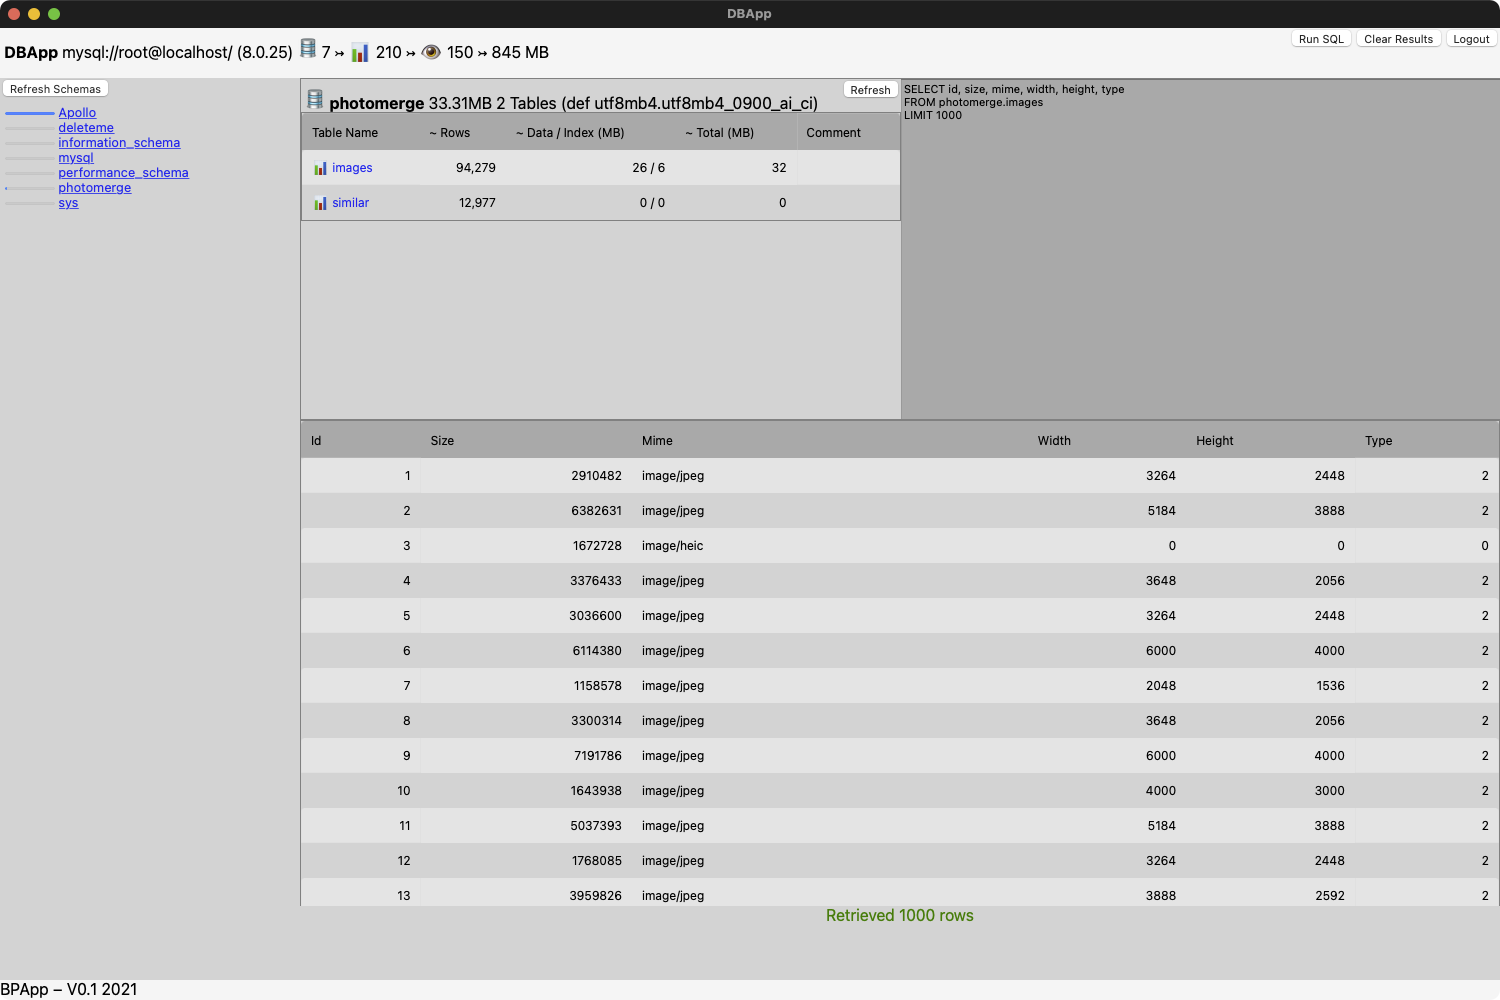
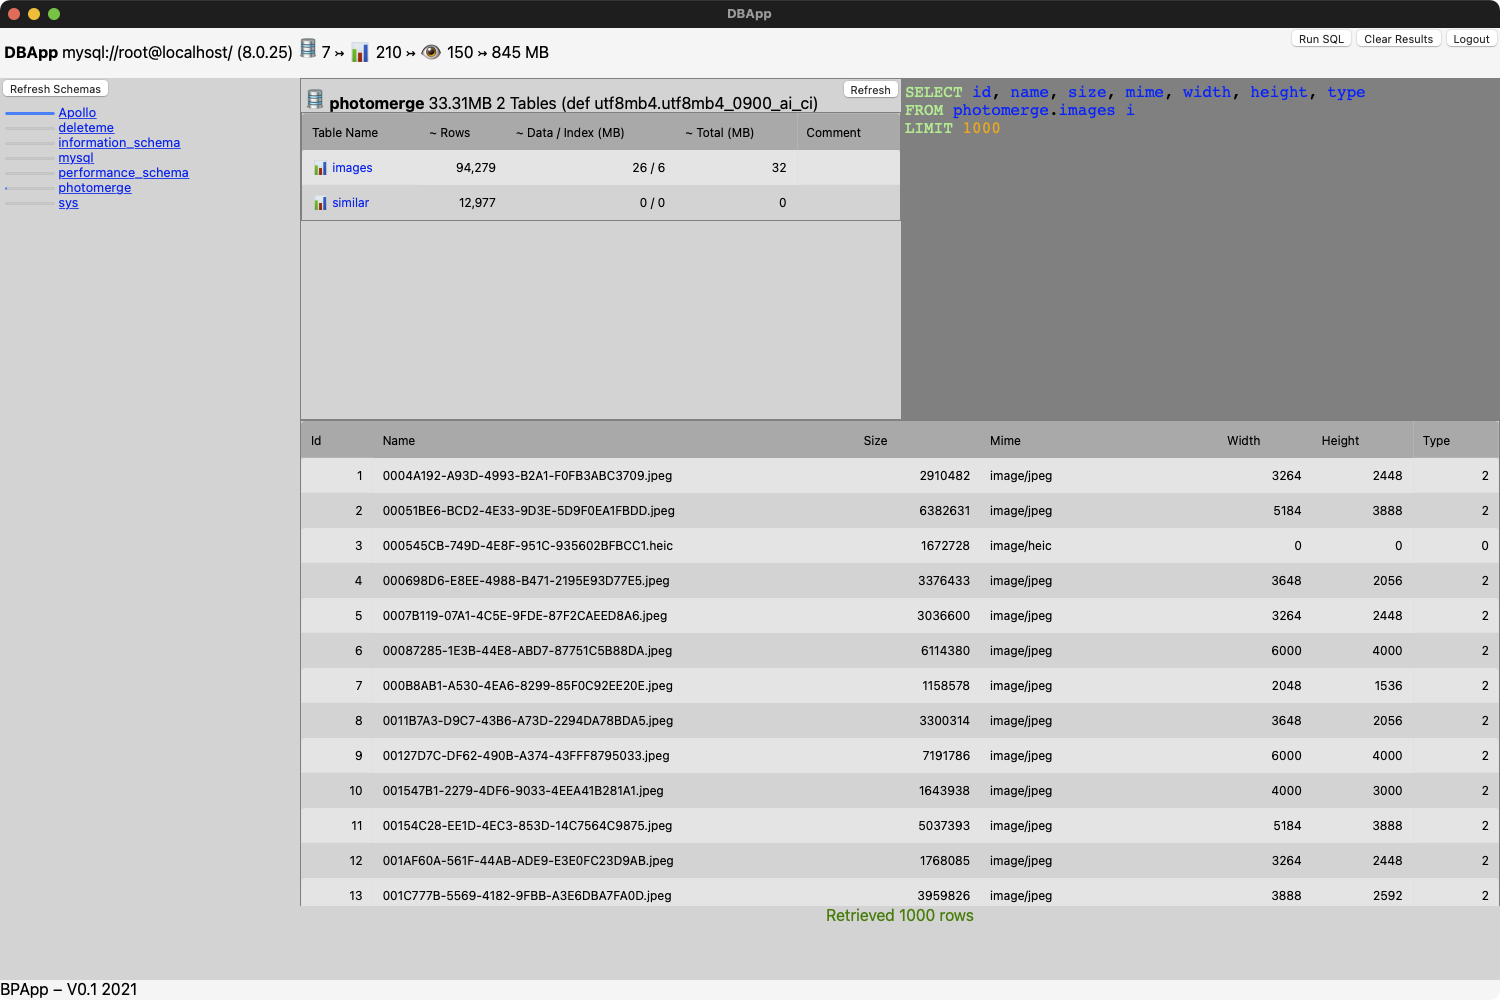
Syntax highlighting using LDT

diff --git a/DBApp.html b/DBApp.html
@@ -1,6 +1,14 @@
 <html>
     <head>
-        
+        <style>
+			/* highlight styles */
+			.ldt .comment { color: silver; }
+			.ldt .string { color: red; }
+			.ldt .number { color: orange; }
+			.ldt .keyword { color: lightgreen; }
+			.ldt .variable { color: cyan; }
+			.ldt .define { color: blue; }
+        </style>
     </head>
     <body>
         <div class="overlay" id="overlay"></div>
@@ -56,7 +64,8 @@
                             <span id="tablelist"></span>
                         </schemainfo>
                         <query id="query">
-                            <textarea id="sql" placeholder="Write your SQL here" style="width: 100%;height: 1000%;background-color: darkgrey;" autocomplete="off" autocorrect="off" autocapitalize="off" spellcheck="false"></textarea>
+                            <!-- <textarea id="sqlx" placeholder="Write your SQL here" style="width: 100%;height: 1000%;background-color: darkgrey;" autocomplete="off" autocorrect="off" autocapitalize="off" spellcheck="false"></textarea> -->
+                            <textarea id="sql" placeholder="Write your SQL here" style="width: 100%;height: 1000%;" autocomplete="off" autocorrect="off" autocapitalize="off" spellcheck="false"></textarea>
                         </query>
                     </action>
                     <results id="results">
@@ -76,5 +85,22 @@
         document.getElementById('server').value = server;
         document.getElementById('login').value = login;
         document.getElementById('password').value = password;
+        function $(e){ return document.getElementById(e); };
+        var parser = new Parser({
+            whitespace: /\s+/,
+            number: /0x[\dA-Fa-f]+|-?(\d+\.?\d*|\.\d+)|#[\dA-Fa-f]{3,6}/,
+            comment: /\/\*([^\*]|\*[^\/])*(\*\/?)?|(\/\/|#)[^\r\n]*|--\s+.*/,
+            string: /"(\\.|[^"\r\n])*"?|'(\\.|[^'\r\n])*'?/,
+            keyword: /([S,s][E,e][L,l][E,e][C,c][T,t]|[F,f][R,r][O,o][M,m]|[W,w][H,h][E,e][R,r][E,e]|[A,a][N,n][D,d]|[O,o][R,r]|[B,b][E,e][T,t][W,w][E,e][E,e][N,n]|[L,l][I,i][M,m][I,i][T,t]|[C,c][A,a][S,s][E,e]|[W,w][H,h][E,e][N,n]|[T,t][H,h][E,e][N,n]|[I,i][S,s]|[N,n][O,o][T,t]|[E,e][L,l][S,s][E,e]|[E,e][N,n][D,d]|[N,n][U,u][L,l][L,l]|[O,o][N,n]|[[L,l][E,e][F,f][T,t]|[R,r][I,i][G,g][H,h][T,t]|[O,o][U,u][T,t][E,e][R,r]|[J,j][O,o][I,i][N,n]|[H,h][A,a][V,v][I,i][N,n][G,g]|[L,l][I,i][K,k][E,e]|[O,o][R,r][D,d][E,e][R,r]|[B,b][Y,y]|[G,g][R,r][O,o][U,u][P,p])(?!\w|=)/i, /* i not working */
+            variable: /[\$\%\@](\->|\w)+(?!\w)|\${\w*}?/,
+            define: /[$A-Z_a-z0-9]+/,
+            op: /[\+\-\*\/=<>!]=?|[\(\)\{\}\[\]\.\|]/,
+            other: /\S/,
+        });
+        window.onload = function(){
+            var textarea = document.getElementById('sql');
+            textarea.value = '-- comment\nSELECT CURRENT_DATE ';
+            decorator = new TextareaDecorator( textarea, parser );
+        };
     </script>
 </html>

diff --git a/TextareaDecorator.js b/TextareaDecorator.js
@@ -1,0 +1,84 @@
+/* TextareaDecorator.js
+ * written by Colin Kuebler 2012
+ * Part of LDT, dual licensed under GPLv3 and MIT
+ * Builds and maintains a styled output layer under a textarea input layer
+ */
+
+function TextareaDecorator( textarea, parser ){
+	/* INIT */
+	var api = this;
+
+	var parent = document.createElement("div");
+	var output = document.createElement("pre");
+	parent.appendChild(output);
+	var label = document.createElement("label");
+	parent.appendChild(label);
+	textarea.parentNode.replaceChild( parent, textarea );
+	label.appendChild(textarea);
+	parent.className = 'ldt ' + textarea.className;
+	textarea.className = '';
+	textarea.spellcheck = false;
+	textarea.wrap = "off";
+
+	var color = function( input, output, parser ){
+		var oldTokens = output.childNodes;
+		var newTokens = parser.tokenize(input);
+		var firstDiff, lastDiffNew, lastDiffOld;
+		for( firstDiff = 0; firstDiff < newTokens.length && firstDiff < oldTokens.length; firstDiff++ )
+			if( newTokens[firstDiff] !== oldTokens[firstDiff].textContent ) break;
+		while( newTokens.length < oldTokens.length )
+			output.removeChild(oldTokens[firstDiff]);
+		for( lastDiffNew = newTokens.length-1, lastDiffOld = oldTokens.length-1; firstDiff < lastDiffOld; lastDiffNew--, lastDiffOld-- )
+			if( newTokens[lastDiffNew] !== oldTokens[lastDiffOld].textContent ) break;
+		for( ; firstDiff <= lastDiffOld; firstDiff++ ){
+			oldTokens[firstDiff].className = parser.identify(newTokens[firstDiff]);
+			oldTokens[firstDiff].textContent = oldTokens[firstDiff].innerText = newTokens[firstDiff];
+		}
+		for( var insertionPt = oldTokens[firstDiff] || null; firstDiff <= lastDiffNew; firstDiff++ ){
+			var span = document.createElement("span");
+			span.className = parser.identify(newTokens[firstDiff]);
+			span.textContent = span.innerText = newTokens[firstDiff];
+			output.insertBefore( span, insertionPt );
+		}
+	};
+
+	api.input = textarea;
+	api.output = output;
+	api.update = function(){
+		var input = textarea.value;
+		if( input ){
+			color( input, output, parser );
+			var lines = input.split('\n');
+			var maxlen = 0, curlen;
+			for( var i = 0; i < lines.length; i++ ){
+				var tabLength = 0, offset = -1;
+				while( (offset = lines[i].indexOf( '\t', offset+1 )) > -1 ){
+					tabLength += 7 - (tabLength + offset) % 8;
+				}
+				var curlen = lines[i].length + tabLength;
+				maxlen = maxlen > curlen ? maxlen : curlen;
+			}
+			textarea.cols = maxlen + 1;
+			textarea.rows = lines.length + 2;
+		} else {
+			output.innerHTML = '';
+			textarea.cols = textarea.rows = 1;
+		}
+	};
+
+	if( textarea.addEventListener ){
+		textarea.addEventListener( "input", api.update, false );
+	} else {
+		textarea.attachEvent( "onpropertychange",
+			function(e){
+				if( e.propertyName.toLowerCase() === 'value' ){
+					api.update();
+				}
+			}
+		);
+	}
+	api.update();
+
+	return api;
+};
+

diff --git a/DBApp.js b/DBApp.js
@@ -132,7 +132,7 @@ function showSchemaInfo(sn) {
                 if (tabinfo.data[x].table_type == "VIEW") {
                     table_type = "&#128065;&#65039;";
                 }
-                txt += "<tr><td data-sort=\"" + tabinfo.data[x].table_name + "\"><a href=\"#\" onclick=\"document.getElementById('sql').value='SELECT *\\r\\nFROM " + schemaData[sn].schema + "." + tabinfo.data[x].table_name + "\\r\\nLIMIT 1000';return false;\" style=\"text-decoration: none;\">" + table_type + "&nbsp;" + tabinfo.data[x].table_name + "</a></td><td style=\"text-align:right\" data-sort=\"" + tr + "\">" + tr.toLocaleString() + "</td><td style=\"text-align:right\" data-sort=\"" + di + "\">" + dl.toLocaleString() + " / " + il.toLocaleString() + "</td><td style=\"text-align:right\" data-sort=\"" + di + "\">" + di.toLocaleString() + "</td><td>" + tabinfo.data[x].table_comment + "</td></tr>";
+                txt += "<tr><td data-sort=\"" + tabinfo.data[x].table_name + "\"><a href=\"#\" onclick=\"document.getElementById('sql').value='SELECT *\\r\\nFROM " + schemaData[sn].schema + "." + tabinfo.data[x].table_name + "\\r\\nLIMIT 1000';decorator.update();return false;\" style=\"text-decoration: none;\">" + table_type + "&nbsp;" + tabinfo.data[x].table_name + "</a></td><td style=\"text-align:right\" data-sort=\"" + tr + "\">" + tr.toLocaleString() + "</td><td style=\"text-align:right\" data-sort=\"" + di + "\">" + dl.toLocaleString() + " / " + il.toLocaleString() + "</td><td style=\"text-align:right\" data-sort=\"" + di + "\">" + di.toLocaleString() + "</td><td>" + tabinfo.data[x].table_comment + "</td></tr>";
             }
             txt += "</tbody></table>";
             document.getElementById('tablelist').innerHTML = txt;

diff --git a/Keybinder.js b/Keybinder.js
@@ -1,0 +1,76 @@
+/* Keybinder.js
+ * written by Colin Kuebler 2012
+ * Part of LDT, dual licensed under GPLv3 and MIT
+ * Simplifies the creation of keybindings on any element
+ */
+
+var Keybinder = {
+	bind: function( element, keymap ){
+		element.keymap = keymap;
+		var keyNames = {
+			8: "Backspace",
+			9: "Tab",
+			13: "Enter",
+			16: "Shift",
+			17: "Ctrl",
+			18: "Alt",
+			19: "Pause",
+			20: "CapsLk",
+			27: "Esc",
+			33: "PgUp",
+			34: "PgDn",
+			35: "End",
+			36: "Home",
+			37: "Left",
+			38: "Up",
+			39: "Right",
+			40: "Down",
+			45: "Insert",
+			46: "Delete",
+			112: "F1",
+			113: "F2",
+			114: "F3",
+			115: "F4",
+			116: "F5",
+			117: "F6",
+			118: "F7",
+			119: "F8",
+			120: "F9",
+			121: "F10",
+			122: "F11",
+			123: "F12",
+			145: "ScrLk" };
+		var keyEventNormalizer = function(e){
+			var e = e || window.event;
+			var query = "";
+			e.shiftKey && (query += "Shift-");
+			e.ctrlKey && (query += "Ctrl-");
+			e.altKey && (query += "Alt-");
+			e.metaKey && (query += "Meta-");
+			var key = e.which || e.keyCode || e.charCode;
+			if( keyNames[key] )
+				query += keyNames[key];
+			else
+				query += String.fromCharCode(key).toUpperCase();
+			/* DEBUG */
+			if( element.keymap[query] && element.keymap[query]() ){
+				e.preventDefault && e.preventDefault();
+				e.stopPropagation && e.stopPropagation();
+				return false;
+			}
+			return true;
+		};
+		var fireOnKeyPress = true;
+		element.onkeydown = function(e){
+			fireOnKeyPress = false;
+			return keyEventNormalizer(e);
+		};
+		element.onkeypress = function(e){
+			if( fireOnKeyPress )
+				return keyEventNormalizer(e);
+			fireOnKeyPress = true;
+			return true;
+		};
+	}
+}
+

diff --git a/TextareaDecorator.css b/TextareaDecorator.css
@@ -1,0 +1,63 @@
+/* TextareaDecorator.css
+ * written by Colin Kuebler 2012
+ * Part of LDT, dual licensed under GPLv3 and MIT
+ * Provides styles for rendering a textarea on top of a pre with scrollbars
+ */
+
+/* settings you can play with */
+
+.ldt, .ldt label {
+	padding: 4px;
+}
+
+.ldt, .ldt pre, .ldt textarea {
+	font-size: 16px !important;
+	/* resize algorithm depends on a monospaced font */
+	font-family: monospace !important;
+}
+
+.ldt textarea {
+	/* hide the text but show the text caret */
+	color: transparent !important;
+	caret-color: #000;
+}
+
+/* settings you shouldn't play with unless you have a good reason */
+
+.ldt {
+	overflow: auto;
+	position: relative;
+}
+
+.ldt pre {
+	margin: 0;
+	overflow: initial;
+}
+
+.ldt label {
+	position: absolute;
+	top: 0;
+	left: 0;
+	width: 100%;
+	height: 100%;
+	display: inline;
+	box-sizing: border-box;
+	-moz-box-sizing: border-box;
+	-webkit-box-sizing: border-box;
+	cursor: text;
+}
+
+.ldt textarea {
+	margin: 0;
+	padding: 0;
+	border: 0;
+	background: 0;
+	outline: none;
+	resize: none;
+	min-width: 100%;
+	min-height: 100%;
+	overflow: hidden;
+	/* IE doesn't support rgba textarea, so use vendor specific alpha filter */
+	filter: alpha(opacity = 20);
+}
+

diff --git a/Parser.js b/Parser.js
@@ -1,0 +1,39 @@
+/* Parser.js
+ * written by Colin Kuebler 2012
+ * Part of LDT, dual licensed under GPLv3 and MIT
+ * Generates a tokenizer from regular expressions for TextareaDecorator
+ */
+
+function Parser( rules, i ){
+	/* INIT */
+	var api = this;
+
+	var i = i ? 'i' : '';
+	var parseRE = null;
+	var ruleSrc = [];
+	var ruleMap = {};
+
+	api.add = function( rules ){
+		for( var rule in rules ){
+			var s = rules[rule].source;
+			ruleSrc.push( s );
+			ruleMap[rule] = new RegExp('^('+s+')$', i );
+		}
+		parseRE = new RegExp( ruleSrc.join('|'), 'g'+i );
+	};
+	api.tokenize = function(input){
+		return input.match(parseRE);
+	};
+	api.identify = function(token){
+		for( var rule in ruleMap ){
+			if( ruleMap[rule].test(token) ){
+				return rule;
+			}
+		}
+	};
+
+	api.add( rules );
+
+	return api;
+};
+

diff --git a/SelectHelper.js b/SelectHelper.js
@@ -1,0 +1,23 @@
+/* SelectHelper.js
+ * written by Colin Kuebler 2012
+ * Part of LDT, dual licensed under GPLv3 and MIT
+ * Convenient utilities for cross browser textarea selection manipulation
+ */
+
+var SelectHelper = {
+	add: function( element ){
+		element.insertAtCursor = element.createTextRange ?
+			function(x){
+				document.selection.createRange().text = x;
+			} :
+			function(x){
+				var s = element.selectionStart,
+					e = element.selectionEnd,
+					v = element.value;
+				element.value = v.substring(0, s) + x + v.substring(e);
+				s += x.length;
+				element.setSelectionRange(s, s);
+			};
+	}
+};
+

diff --git a/DBApp.cc b/DBApp.cc
@@ -666,7 +666,7 @@ int main() {
     page.append(urlencode("<style>"));
     page.append(urlencode(loadfile(rpath + "/DBApp.css")));
     page.append(urlencode(loadfile(rpath + "/sortable.css")));
-    page.append(urlencode(loadfile(rpath + "/prism.css")));
+    page.append(urlencode(loadfile(rpath + "/TextareaDecorator.css")));
     page.append(urlencode("</style>"));
     w.navigate(page.c_str());
 
@@ -687,8 +687,10 @@ int main() {
     // Load other JS support files
     w.init(loadfile(rpath + "/DBApp.js"));
     w.init(loadfile(rpath + "/sortable.js"));
-    w.init(loadfile(rpath + "/prism.js"));
-    w.init(loadfile(rpath + "/vue.global.js"));
+    w.init(loadfile(rpath + "/Keybinder.js"));
+    w.init(loadfile(rpath + "/Parser.js"));
+    w.init(loadfile(rpath + "/SelectHelper.js"));
+    w.init(loadfile(rpath + "/TextareaDecorator.js"));
 
     w.run();
     mysql_close(connection);

diff --git a/README.md b/README.md
@@ -15,8 +15,9 @@ A database application that's super small and easy to develop. It really is smal
 * https://github.com/webview/webview as the framework to buiild the app with
 * Borrowed the Mac menus idea from lukevers webview fork https://github.com/lukevers/webview
 * https://github.com/tofsjonas/sortable to make HTML Tables sortable
+* Syntax highlighting supplied by https://prismjs.com (disabled for the moment) 
 * Borrowed the icon from DB Browser for SQLite ... for now, its so nice and simple
-* Syntax highlightiong supplied by https://prismjs.com
+* https://github.com/kueblc/LDT for Syntax highlighting
 
 # Issues
 * It's not even beta, it's alpha
